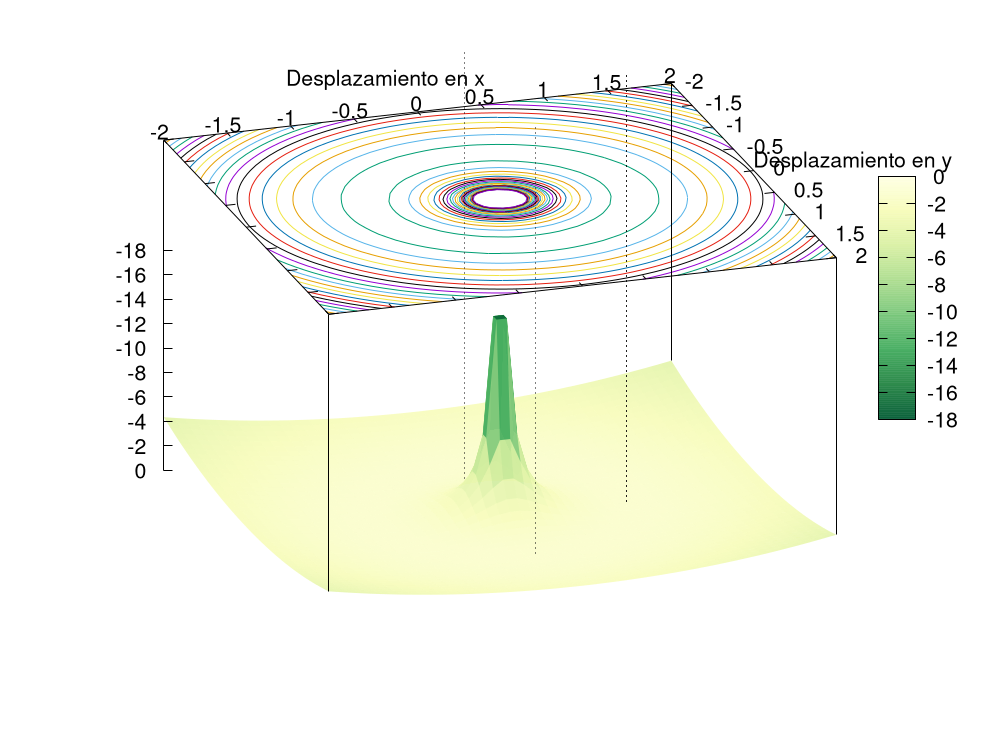
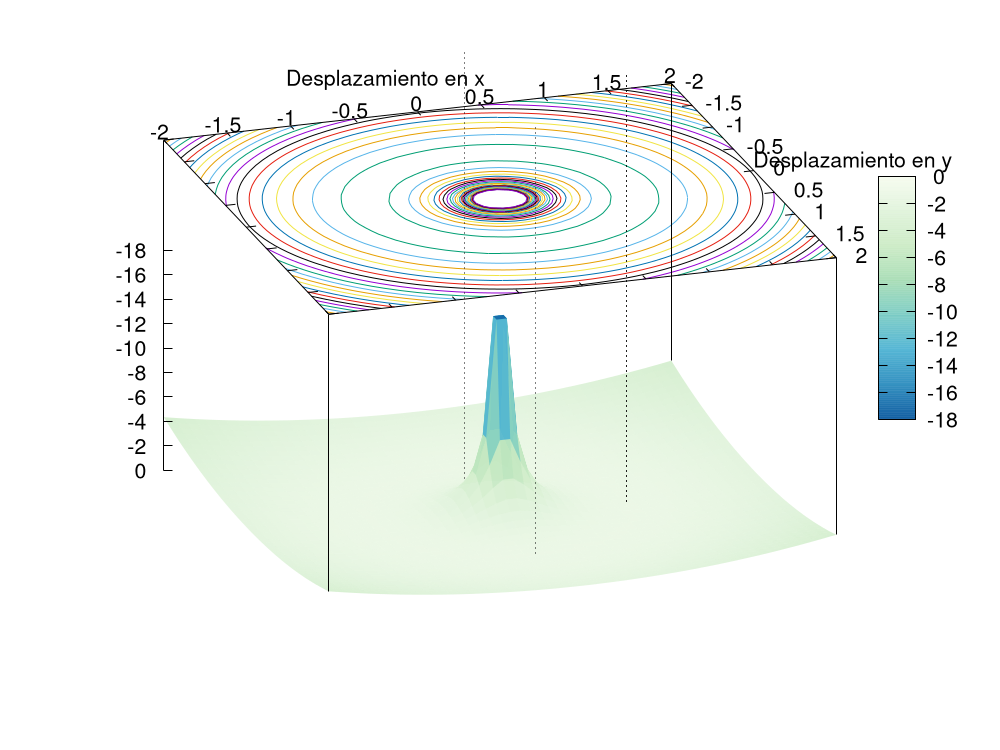
Terminado

Changed region(s): [[0.155, 0.3987, 0.837, 0.7973], [0.868, 0.2453, 0.93, 0.5827]]

diff --git a/PyLagrange.py b/PyLagrange.py
@@ -86,7 +86,7 @@ for i in range(len(DstrList)):
     if kwC == DstrList[i]:
         DstrList[i]=str('xC='+xC+'\n')
     if kwColor == DstrList[i]:
-        DstrList[i]=str('load \'./gnuplot-palettes/'+chcolor+'.pal\''+'\n')
+        DstrList[i]=str('load \'../'+chcolor+'.pal\''+'\n')
 
 ##crear el documento nuevo y cerrar ambos
 Doutput.writelines(DstrList)
@@ -113,7 +113,7 @@ for i in range(len(MapstrList)):
     if kwC == MapstrList[i]:
         MapstrList[i]=str('xC='+xC+'\n')
     if kwColor == MapstrList[i]:
-        MapstrList[i]=str('load \'./gnuplot-palettes/'+chcolor+'.pal\''+'\n')
+        MapstrList[i]=str('load \'../'+chcolor+'.pal\''+'\n')
 
 ##crear el documento nuevo y cerrar ambos
 Mapoutput.writelines(MapstrList)
